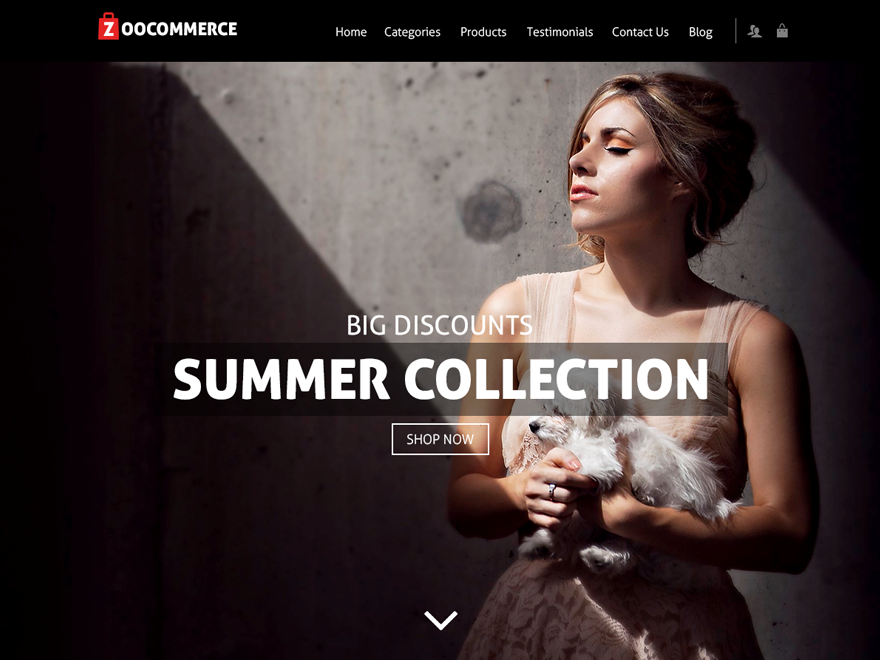
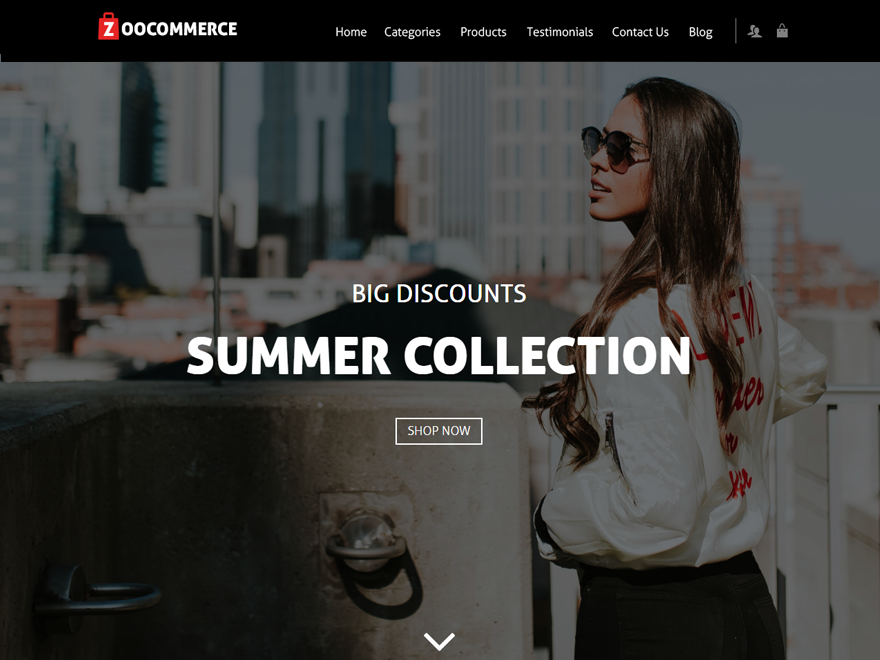
!!! Replaced image in screenshot and updated licenses

diff --git a/README.md b/README.md
@@ -1,11 +1,13 @@
 # Zoommerce
 
-Licenses
-Default home big area image - https://unsplash.com/photos/yMMrrUGvisY
-Photo by myquiel burton
+* Licenses
+    All unsplash.com images are licensed under the terms of the Creative Commons Zero, http://creativecommons.org/publicdomain/zero/1.0/
 
-Default home latest products image - https://unsplash.com/photos/GvZ3whhRQfE
-CC0 - Yaoqi LAI - https://unsplash.com/yaoqiqiqilai
+    Screenshot - https://unsplash.com/photos/hHcHf4mOFgk
+    Photo by Brooke Cagle
 
-OWL Carousel jQuery plugin
+    Default home latest products image - https://unsplash.com/photos/GvZ3whhRQfE
+    Photo by Yaoqi LAI - https://unsplash.com/yaoqiqiqilai
+
+* OWL Carousel jQuery plugin
 MIT - http://owlgraphic.com/owlcarousel/
